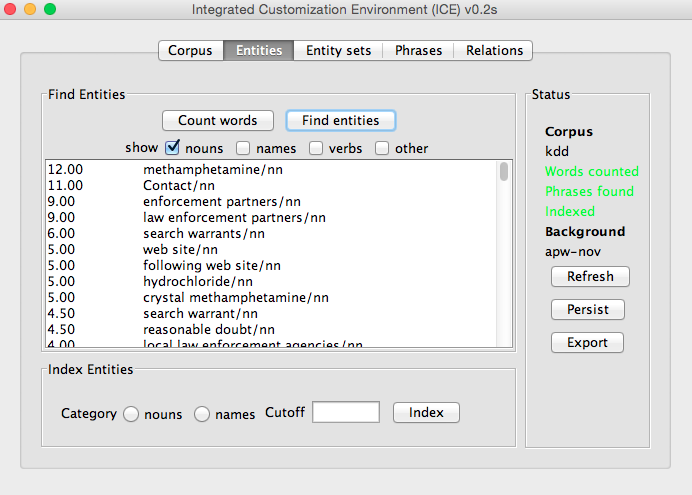
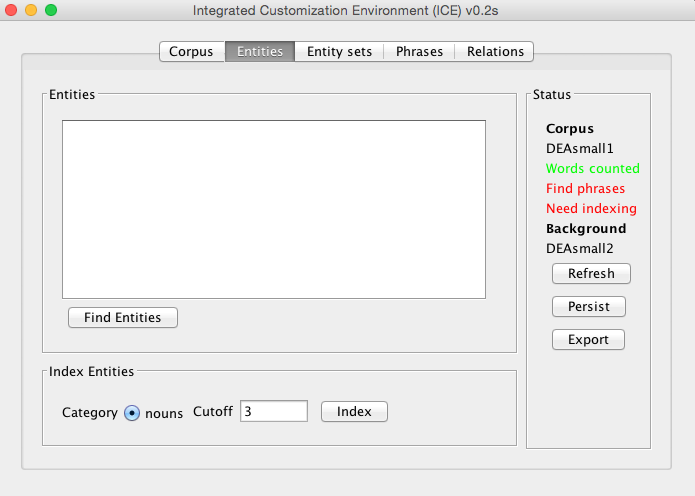
Ralph's comments 5/24

Changed region(s): [[0.0607, 0.1818, 0.9408, 0.9091], [0.0, 0.0, 1.0, 0.1515], [0.0607, 0.1818, 0.1821, 0.2121]]

diff --git a/src/main/java/edu/nyu/jet/ice/views/swing/SwingCorpusPanel.java b/src/main/java/edu/nyu/jet/ice/views/swing/SwingCorpusPanel.java
@@ -1,8 +1,10 @@
 package edu.nyu.jet.ice.views.swing;
 
+import edu.nyu.jet.ice.controllers.Nice;
 import edu.nyu.jet.ice.models.IcePreprocessor;
 import edu.nyu.jet.ice.uicomps.Ice;
 import edu.nyu.jet.ice.utils.FileNameSchema;
+import edu.nyu.jet.ice.utils.IceUtils;
 import edu.nyu.jet.ice.utils.SwingProgressMonitor;
 import edu.nyu.jet.ice.controllers.IceController;
 import edu.nyu.jet.ice.views.CorpusPanel;
@@ -15,6 +17,7 @@ import java.awt.*;
 import java.awt.event.ActionEvent;
 import java.awt.event.ActionListener;
 import java.io.File;
+import java.io.IOException;
 import java.util.ArrayList;
 
 
@@ -122,6 +125,10 @@ public class SwingCorpusPanel extends JComponent implements CorpusPanel, Refresh
 
         deleteButton.addActionListener(new ActionListener() {
             public void actionPerformed(ActionEvent actionEvent) {
+                if (Ice.selectedCorpus == null || Ice.selectedCorpusName == null
+                        || Ice.corpora.size() < 1) {
+                    return;
+                }
                 int input = JOptionPane.showConfirmDialog(null,
                         "Are you sure you want to delete corpus [" + Ice.selectedCorpusName + "]?",
                         "Confirm",
@@ -158,6 +165,7 @@ public class SwingCorpusPanel extends JComponent implements CorpusPanel, Refresh
 
         preprocessButton.addActionListener(new ActionListener() {
             public void actionPerformed(ActionEvent actionEvent) {
+
                 Object[] options = {"No",
                         "Yes"};
                 int n = JOptionPane.showOptionDialog(null,
@@ -173,6 +181,29 @@ public class SwingCorpusPanel extends JComponent implements CorpusPanel, Refresh
                     return;
                 }
                 SwingCorpusPanel.this.controller.setFilter(filterTextField.getText());
+                try {
+                    if (Ice.selectedCorpus.docListFileName == null ||
+                            !(new File(Ice.selectedCorpus.docListFileName)).exists()) {
+                        JOptionPane.showMessageDialog(Nice.mainFrame,
+                                "Cannot find relevant documents. Please reset directory or filter.",
+                                "Corpus Error",
+                                JOptionPane.ERROR_MESSAGE);
+                        return;
+                    }
+                    String[] docArr = IceUtils.readLines(Ice.selectedCorpus.docListFileName);
+                    if (docArr.length == 0) {
+                        JOptionPane.showMessageDialog(Nice.mainFrame,
+                                "Cannot find relevant documents. Please reset directory or filter.",
+                                "Corpus Error",
+                                JOptionPane.ERROR_MESSAGE);
+                        return;
+                    }
+                }
+                catch (IOException e) {
+                    System.err.println("Unable to read docList file...");
+                    e.printStackTrace();
+                    return;
+                }
                 IcePreprocessor icePreprocessor = new IcePreprocessor(
                         Ice.selectedCorpus.directory,
                         Ice.iceProperties.getProperty("Ice.IcePreprocessor.parseprops"),

diff --git a/docs/iceman.md b/docs/iceman.md
@@ -41,9 +41,13 @@ root directory of the corpus or click *browse* to select the directory where the
 files are located. You can apply a filter on the extension of the filename (e.g. sgm) 
 in the corresponding text filter;  You need to click "Apply" to apply the filter.
 
-Clicking "Apply" will start the preprocessing process, which is rather **slow**.
+Clicking "Preprocess" will start the preprocessing process, which is rather **slow**.
 This process will perform dependency parsing, name tagging, and coref resolution, and
 will save the result of these steps for use by the following components.
+
+As the first step of preprocessing, we remove characters not recognized by Ice and copy
+all documents to the cache directory. We process documents in the cache directory 
+in later steps. 
 
 __The background corpus__
 
@@ -72,13 +76,9 @@ __Finding salient terms__
 
 The first step in analyzing the corpus is to identify the salient terms --
 those which occur more frequently in this corpus than in a 'background 
-corpus'.  This is done in two steps.  First you *count words* in the
-corpus; this produces raw word counts.  Then you select a background 
-corpus to compare against and *find terms*.  The result will be a list of terms
+corpus'.  In the Entities panel, click *Find Entities*.  The result will be a list of terms
 ranked by their relative frequency in the two corpora (those with the 
 highest frequency appearing first).
-
-You can select to display nouns, names, verbs, or some combination.
 
 Note that, you can also index entities in this panel. This is necessary
 for building entity sets. Please refer to the next section for more information.
@@ -156,12 +156,10 @@ A pattern is a sequence of words connecting two entities of specified types. (Ac
 specifies the grammatical relation between these words, but this level of detail is hidden from the user.)  Because the
 pattern must connect two entities, defining new entity types can lead to new patterns connecting these entities.
 
-To find the most common patterns in a corpus, use the *Find common patterns* button. (
-If *Show only sentential patterns* is selected, only patterns of the subject - verb - object form
+To find the most common phrases in a corpus, use the *ALl phrases* button. (
+If *Sentential phrases* is clicked, only patterns of the subject - verb - object form
 are displayed.  This is useful for finding events.)
-
-To find the patterns that are most specific to a domain, use the *Rank patterns* button.
-This will rank the patterns based on the ratio between their frequency in the current
+Phrases will be ranked based on the ratio between their frequency in the current
 corpus and their frequency in the background corpus. This is similar to what the *Find entities*
 button does for entities.
 
@@ -191,7 +189,9 @@ Like building entity sets, you can choose whether you want to accept or reject a
 
  After returning to the Relations panel, click the *Save* button on the right of
   the entity set panel and then the *Save* button on the left of the entity set panel
-  to keep it in the Ice environment.
+  to keep it in the Ice environment. If you manually edit the relations, you will
+  also need to click the right *Save* to save it to the relations, and click left
+  *Save* to save the relation to the system.
 
  Finally, click *Persist* in the status panel to save the newly-built entities set to
  the ice.yml file, so that these entities will be available after Ice is closed and

diff --git a/README.md b/README.md
@@ -4,7 +4,9 @@ Licensed under the Apache 2.0 license.
 
 # Running Ice Using Binary Release
 
-Alternatively, download the binary distribution and unzip it. In *runice.sh*, point both $ICE\_HOME
+The easiest way to use Ice is to use the binary distribution.
+
+To use the binary distribution, download the binary distribution and unzip the package. In *runice.sh*, point both $ICE\_HOME
 and $ICE\_LIB\_HOME to directory of the binary distribution. Both variables are set to . by default.
 
 Then, from the working directory, run
